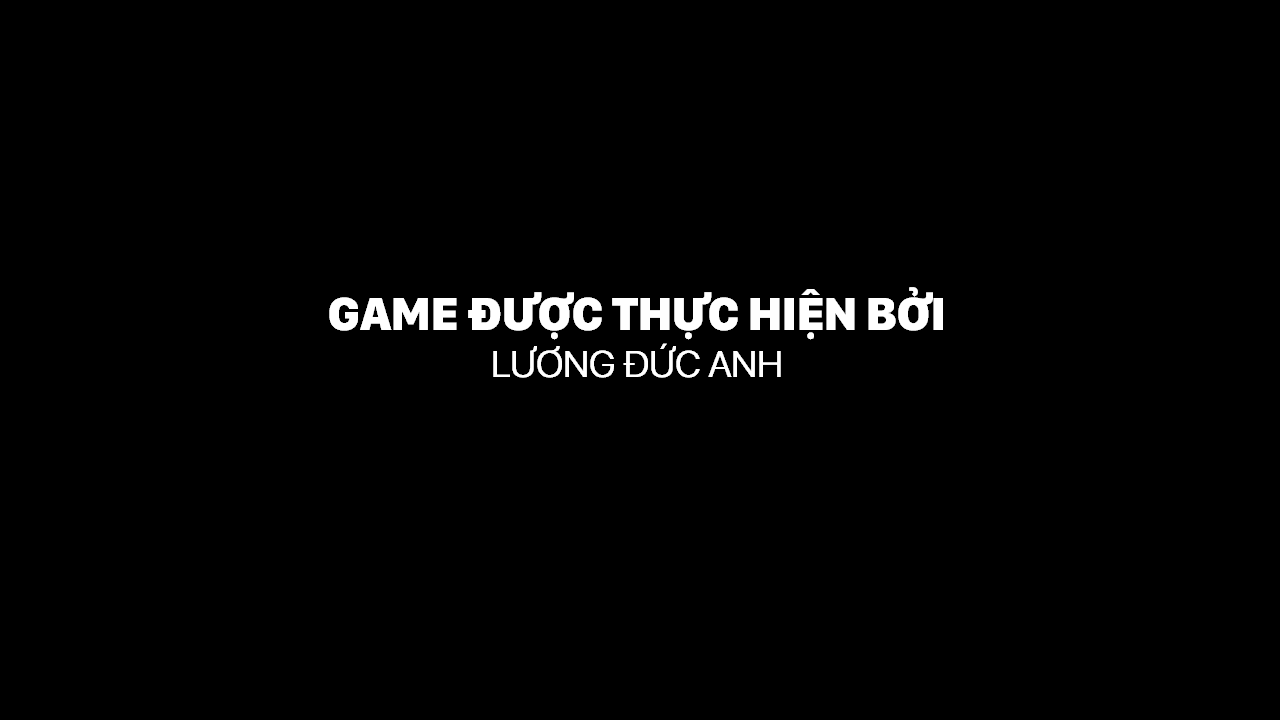
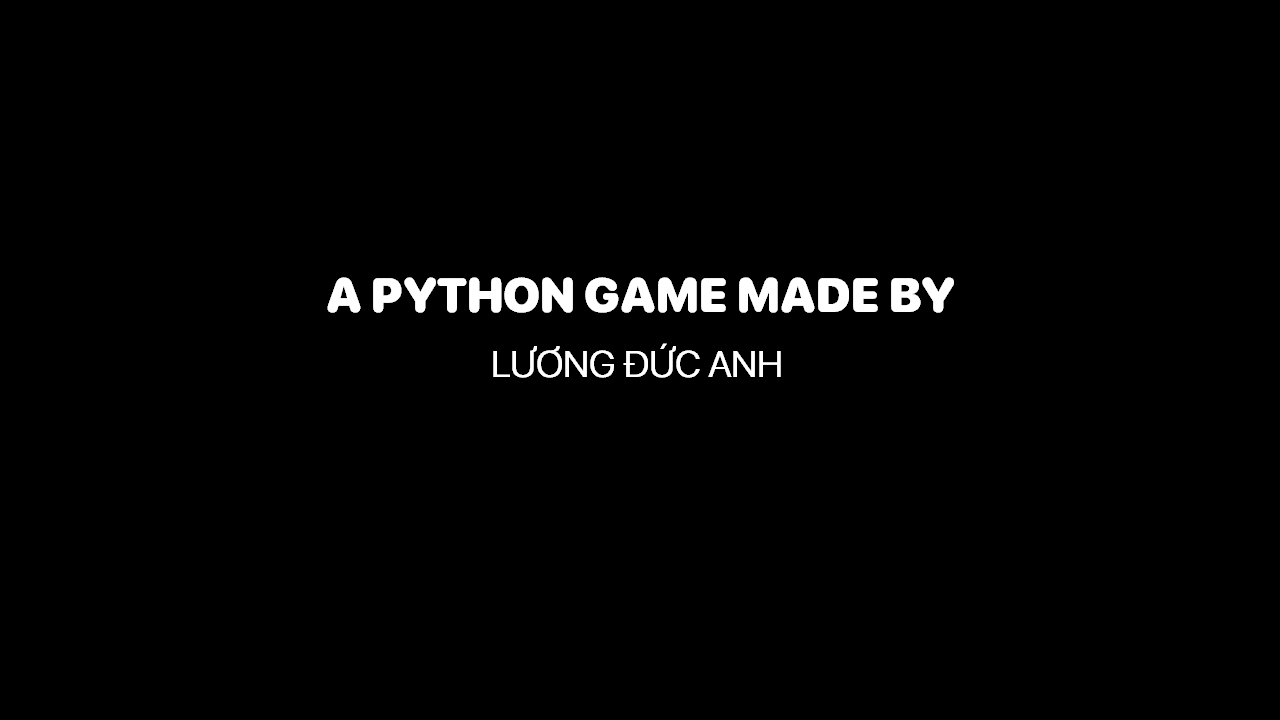
Update

Changed region(s): [[0.25, 0.3667, 0.75, 0.4583]]

diff --git a/main.py b/main.py
@@ -295,11 +295,11 @@ def end(sc):
     result = None
     font = get_font("Assets/font2.ttf", 100)
     if sc.player1_score > sc.player2_score:
-        result = font.render(f"{sc.player1_name} chiến thắng", True, "white")
+        result = font.render(f"{sc.player1_name} is the winner", True, "white")
     elif sc.player1_score < sc.player2_score:
-        result = font.render(f"{sc.player2_name} chiến thắng", True, "white")
+        result = font.render(f"{sc.player2_name} is the winner", True, "white")
     else:
-        result = font.render(f"Tỉ số hoà", True, "white")
+        result = font.render(f"DRAW", True, "white")
     result_rect = result.get_rect(center=(WIDTH/2, 2*HEIGHT/5))
     score = font.render(
         f"{sc.player1_score} - {sc.player2_score}", True, "white")
